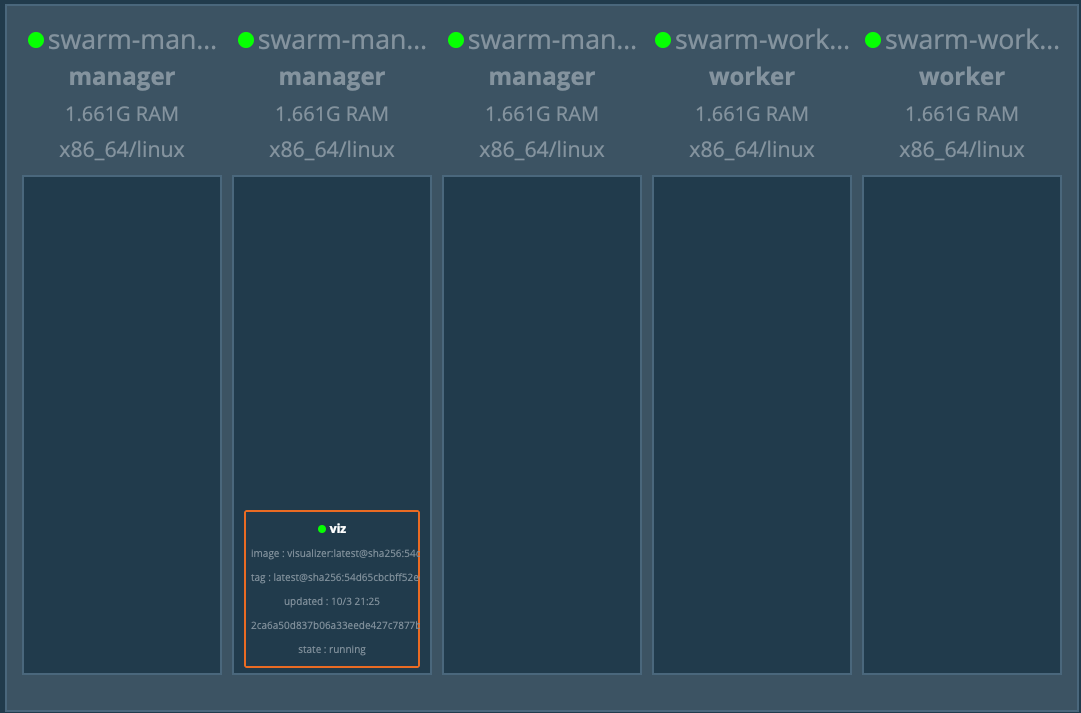
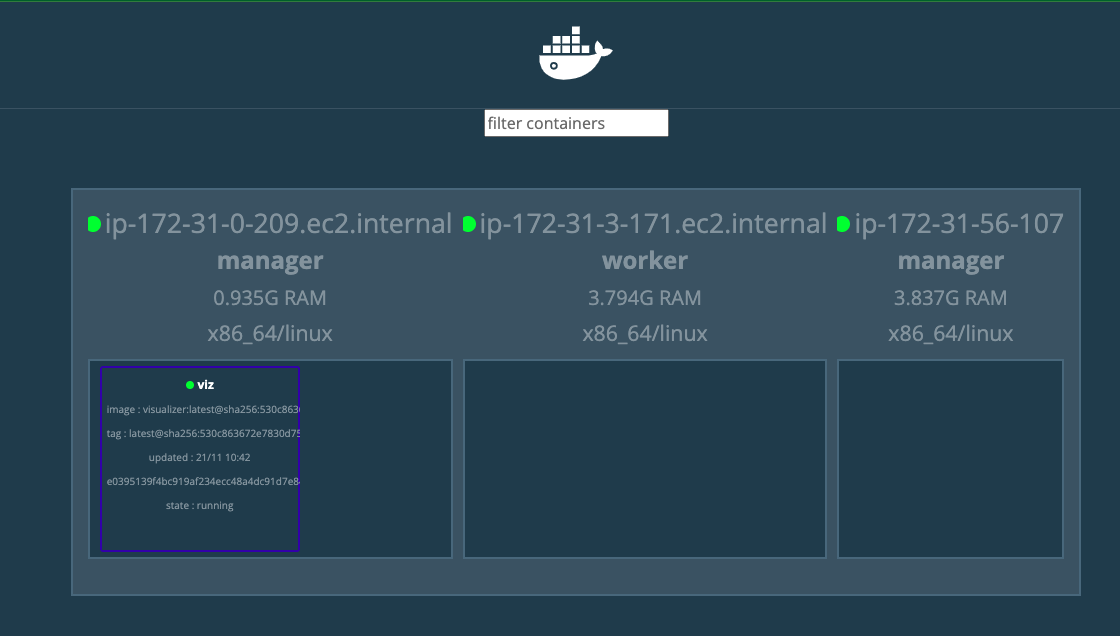
swarm intro

diff --git a/02-Swarm/02-compose-&-swarm-intro/README.md b/02-Swarm/02-compose-&-swarm-intro/README.md
@@ -1,27 +1,63 @@
 ## Conteiners 2.2 - COmpose & Swarm Intro
 
 1. Volte a raiz do seu cloud9 com o comando `cd ~/environment`
-2.  `git clone https://github.com/vamperst/python-redis-docker-compose-intro.git`
+2.  Baixe o repositório a ser utilizado nessa demo com o comando `git clone https://github.com/vamperst/python-redis-docker-compose-intro.git`
 ![img/gitclone.png](img/gitclone.png)
-2. Entre na pasta 'python-redis-docker-compose-intro' com o comando `cd python-redis-docker-compose-intro`
+2. Entre na pasta 'python-redis-docker-compose-intro' com o comando `cd ~/environment/python-redis-docker-compose-intro`
 3. Execute o comando `cat Dockerfile` para ver o conteudo do Dockerfile
    ![img/catdockerfile.png](img/catdockerfile.png)
 4. Execute o comando `cat docker-compose.yml` para ver o conteudo do docker-compose.yml
    ![img/catdockercompose.png](img/catdockercompose.png)
 5. Esta aplicação consiste em um app que conta quantos acessos uma pagina já teve e exibe a cada acesso. Para tal utiliza um código python que esta na pasta lib, e um container de redis como banco de dados.
 6. Primeiro vamos criar a imagem do aplicativo que temos Dockerfile e colocar no dockerhub. Utilize o exemplo dos exercicios anteriores caso necessário. Utilize o nome 'app-counter' na imagem.
-7. Execute o comando `sed -i -e 's/app-counter/<SEU DOCKER ID>\/app-counter:<TAG>/g' docker-compose.yml ` 
-8. Execute o comando `docker stack deploy --with-registry-auth --compose-file docker-compose.yml app-counter` para subir todos os serviços
+7. Você irá precisar do numero da sua conta em uma variável do console. Para isso execute o comando 
+    ``` shell
+    accountID=`aws sts get-caller-identity | jq .Account -r`  
+    ```
+8. Execute o comando `sed -i -e "s/ACCOUNTID/$accountID/g" docker-compose.yml` para atualizar o arquivo para utilizar seu account id no nome da imagem. Você pode verificar a diferença pelo comando `cat docker-compose.yml`
+9. Será necessário criar um novo repositório do ECR para fazer o push da imagem dessa demo. Para isso acesse o [link](https://us-east-1.console.aws.amazon.com/ecr/create-repository?region=us-east-1)
+10. O repositório deve se chamar `app-counter`
+    ![](img/1.png)
+11. Clique em `Criar repositório`
+12. Devolta ao terminal do Cloud9 execute a sequência abaixo de comandos UM POR UM para que você monte a imagem docker e faça o push para o repositório récem criado.
+    ``` shel
+    accountID=`aws sts get-caller-identity | jq .Account -r`
+    aws ecr get-login-password --region us-east-1 | docker login --username AWS --password-stdin $accountID.dkr.ecr.us-east-1.amazonaws.com
+    docker build -t app-counter .
+    docker tag app-counter:latest $accountID.dkr.ecr.us-east-1.amazonaws.com/app-counter:1.0
+    docker push $accountID.dkr.ecr.us-east-1.amazonaws.com/app-counter:1.0
+    ```
+13. Antes de criar o deploy da aplicação você deve garantir que o terminal utilizado esta logado no ECR com os comandos e que maquina do Cloud9 esta como manager do cluster:
+    ``` shell
+    publicIp=`aws ssm get-parameter --name "docker-join-manager-ip" | jq .Parameter.Value -r` 
+    token=`aws ssm get-parameter --name "docker-join-manager-token" | jq .Parameter.Value -r` 
+    docker swarm join --token  $token $publicIp:2377
+    accountID=`aws sts get-caller-identity | jq .Account -r`
+    aws ecr get-login-password --region us-east-1 | docker login --username AWS --password-stdin $accountID.dkr.ecr.us-east-1.amazonaws.com
+    ```
+    ![](img/2.png)
+14. Execute o comando `docker stack deploy --with-registry-auth --compose-file docker-compose.yml app-counter` para subir todos os serviços
    ![img/stackcreate.png](img/stackcreate.png)
-9. Execute o comando `docker stack ls` para ver o status da stack completa
+11. Execute o comando `docker stack ls` para ver o status da stack completa
     ![img/stackls1.png](img/stackls1.png)
-10. Você também pode verificar a saude dos serviços através do comando `docker service ls`
+12. Você também pode verificar a saude dos serviços através do comando `docker service ls`
     ![img/servicels1.png](img/servicels1.png)
-11. Caso todos os serviços estejam rodando conforme a imagem acima, pegue os ips externos das maquinas que esta utilizando no cluster e coloque o ":5000" em seguida para acessar pelo navegador(ip:5000). Note que você pode utilizar qualquer maquina do cluster na porta 5000 que estará batendo no mesmo serviço. Mesmo que o serviço não esteja rodando no host testado.
-    ![img/test1.png](img/test1.png)
-12. Para visualizar todos os containers em execução e onde estão vamos utilizar o Visualizer. Para tal execute o comando `docker service create --name=viz --publish=8080:8080/tcp  --constraint=node.role==manager --mount=type=bind,src=/var/run/docker.sock,dst=/var/run/docker.sock dockersamples/visualizer`
-13. Agora pegue o ip do 'swarm-manager-1' e adicione a porta :8080 para acessar pelo navegador.
+13. Caso todos os serviços estejam rodando conforme a imagem acima é hora de acessar o serviço criado. Para isso você vai precisar acessar via o IP público do nó worker, utilize o comando abaixo para gerar o link.
+    ```
+    workerIp=`aws ssm get-parameter --name "docker-worker-ip" | jq .Parameter.Value -r` && echo "http://$workerIp:5000"
+    ```
+    ![](img/3.png)
+14. Ao acessar via navegador você pode recarregar a página e ver o contador aumentar por que a cada vez que acessa um registro no redis é atualizado.
+    ![](img/4.png)
+15. De volta ao Coud9, para visualizar todos os containers em execução e onde estão vamos utilizar o Visualizer. Para tal execute o comando `docker service create --name=viz --publish=8080:8080/tcp  --constraint=node.role==manager --mount=type=bind,src=/var/run/docker.sock,dst=/var/run/docker.sock dockersamples/visualizer`
+    ![](img/5.png)
+    ![](img/6.png)
+16. Utilize o comando abaixo para visualizar onde estão rodando cada container de serviço no cluster. Tente os 2 IPs pois o serviço irá rodar em qualquer um dos dois managers do cluster
+    ```
+    publicIp=`aws ssm get-parameter --name "docker-join-manager-ip" | jq .Parameter.Value -r` && echo "http://$publicIp:8080"
+    publicC9Ip=`curl -s http://169.254.169.254/latest/meta-data/public-ipv4` && echo "http://$publicC9Ip:8080"
+    ```
     ![img/visualizer.png](img/visualizer.png)
-14. Agora vamos remover tudo do cluster. Primeiro a stack, execute o comando `docker stack rm app-counter`. Vai conseguir notar no visualizer que logo após o comando, os containers sumiram rapidamente.
+17. Voltando ao Cloud9, agora vamos remover tudo do cluster. Primeiro a stack, execute o comando `docker stack rm app-counter`. Vai conseguir notar no visualizer que logo após o comando, os containers sumiram rapidamente.
     ![img/visualizer2.png](img/visualizer2.png)
-15. Por fim remova o serviço criado para o visualizer com o comando `docker service rm viz`
+18. Por fim remova o serviço criado para o visualizer com o comando `docker service rm viz`
